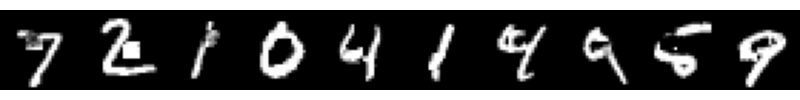
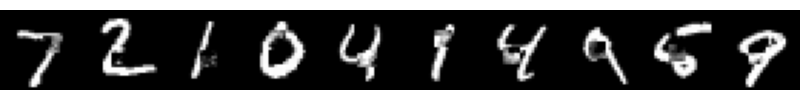
commit

diff --git a/self-supervised/EBL-Reconstruction/ebm_reconstruction.py b/self-supervised/EBL-Reconstruction/ebm_reconstruction.py
@@ -25,7 +25,7 @@ def train(enet, gnet, epochs=100, lrate=0.05, mini_batch=100):
     optimizer = optim.SGD(list(enet.parameters()) +
                           list(gnet.parameters()), lr=lrate)
 
-    for epoch in tq(range(epochs)):
+    for epoch in tq(range(epochs+1)):
 
         for i in range(N//mini_batch):
 
@@ -69,7 +69,7 @@ if __name__ == '__main__':
         nn.Linear(256, 256), nn.Hardtanh(),
         nn.Linear(256, 784), nn.Hardtanh()
     )
-    train(enet, gnet, epochs=50)
+    train(enet, gnet, epochs=50, lrate=0.08, mini_batch=1000)
 
     x = Xt[:10]
     z, m = removepatch(x)
